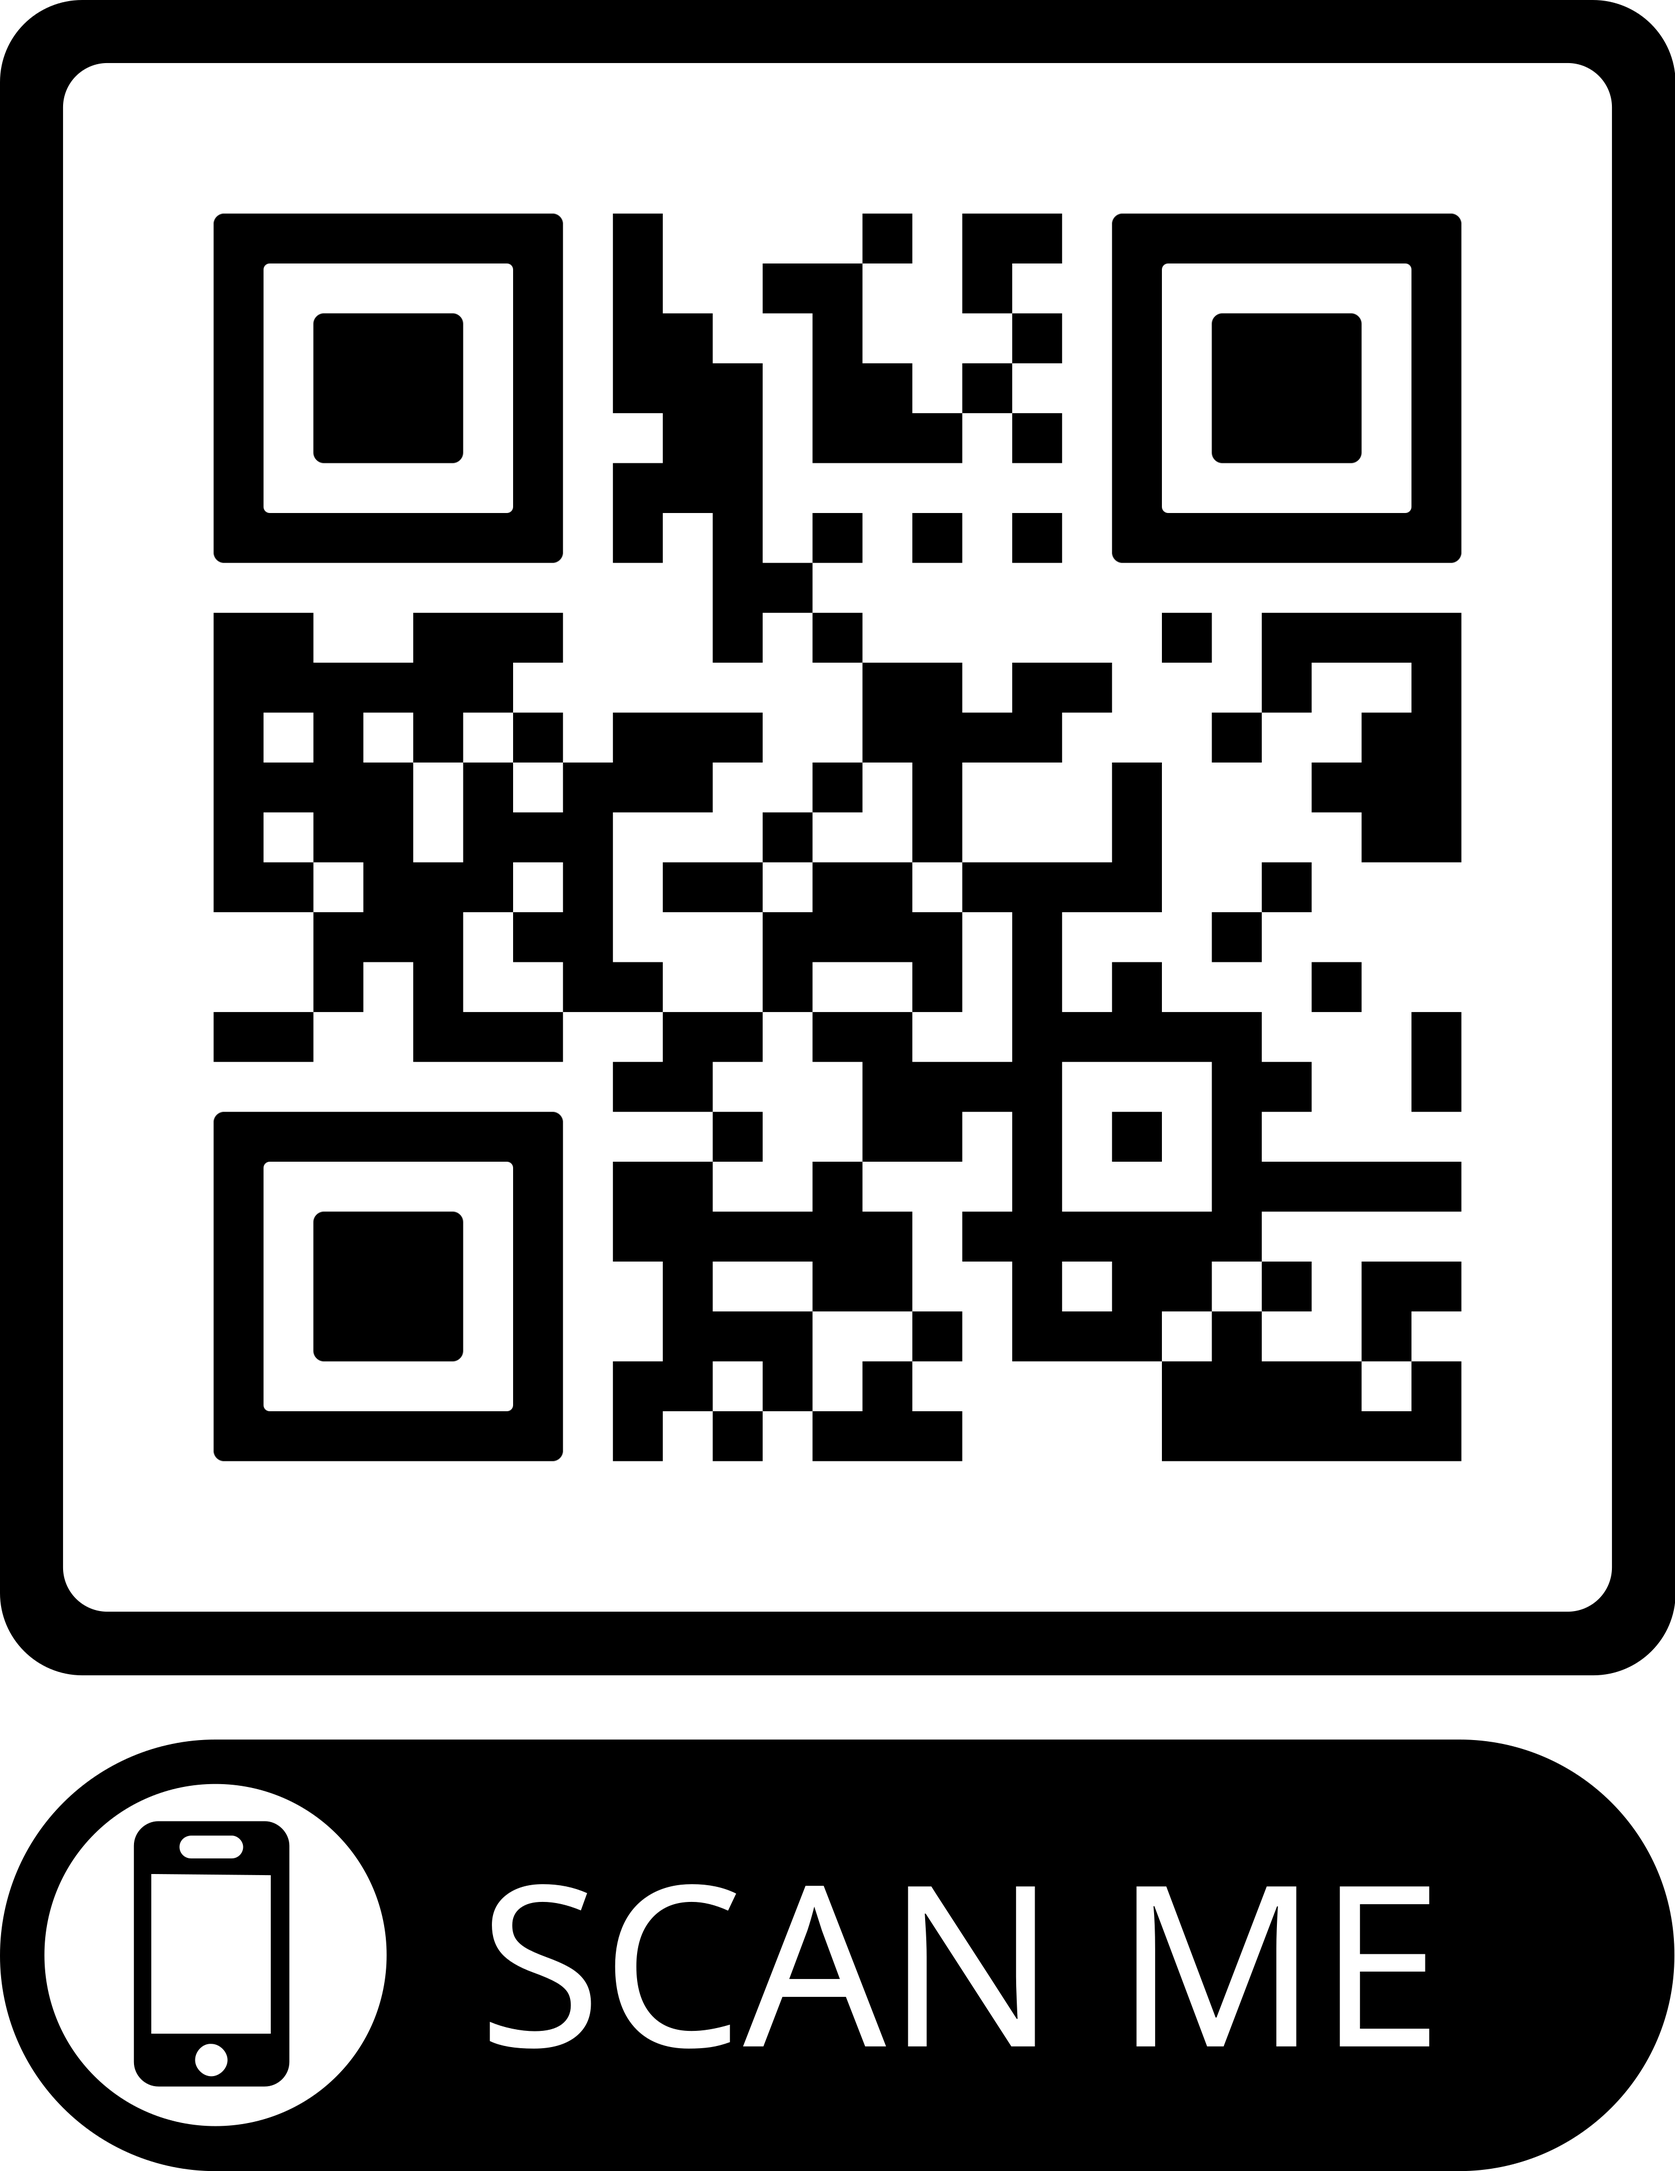
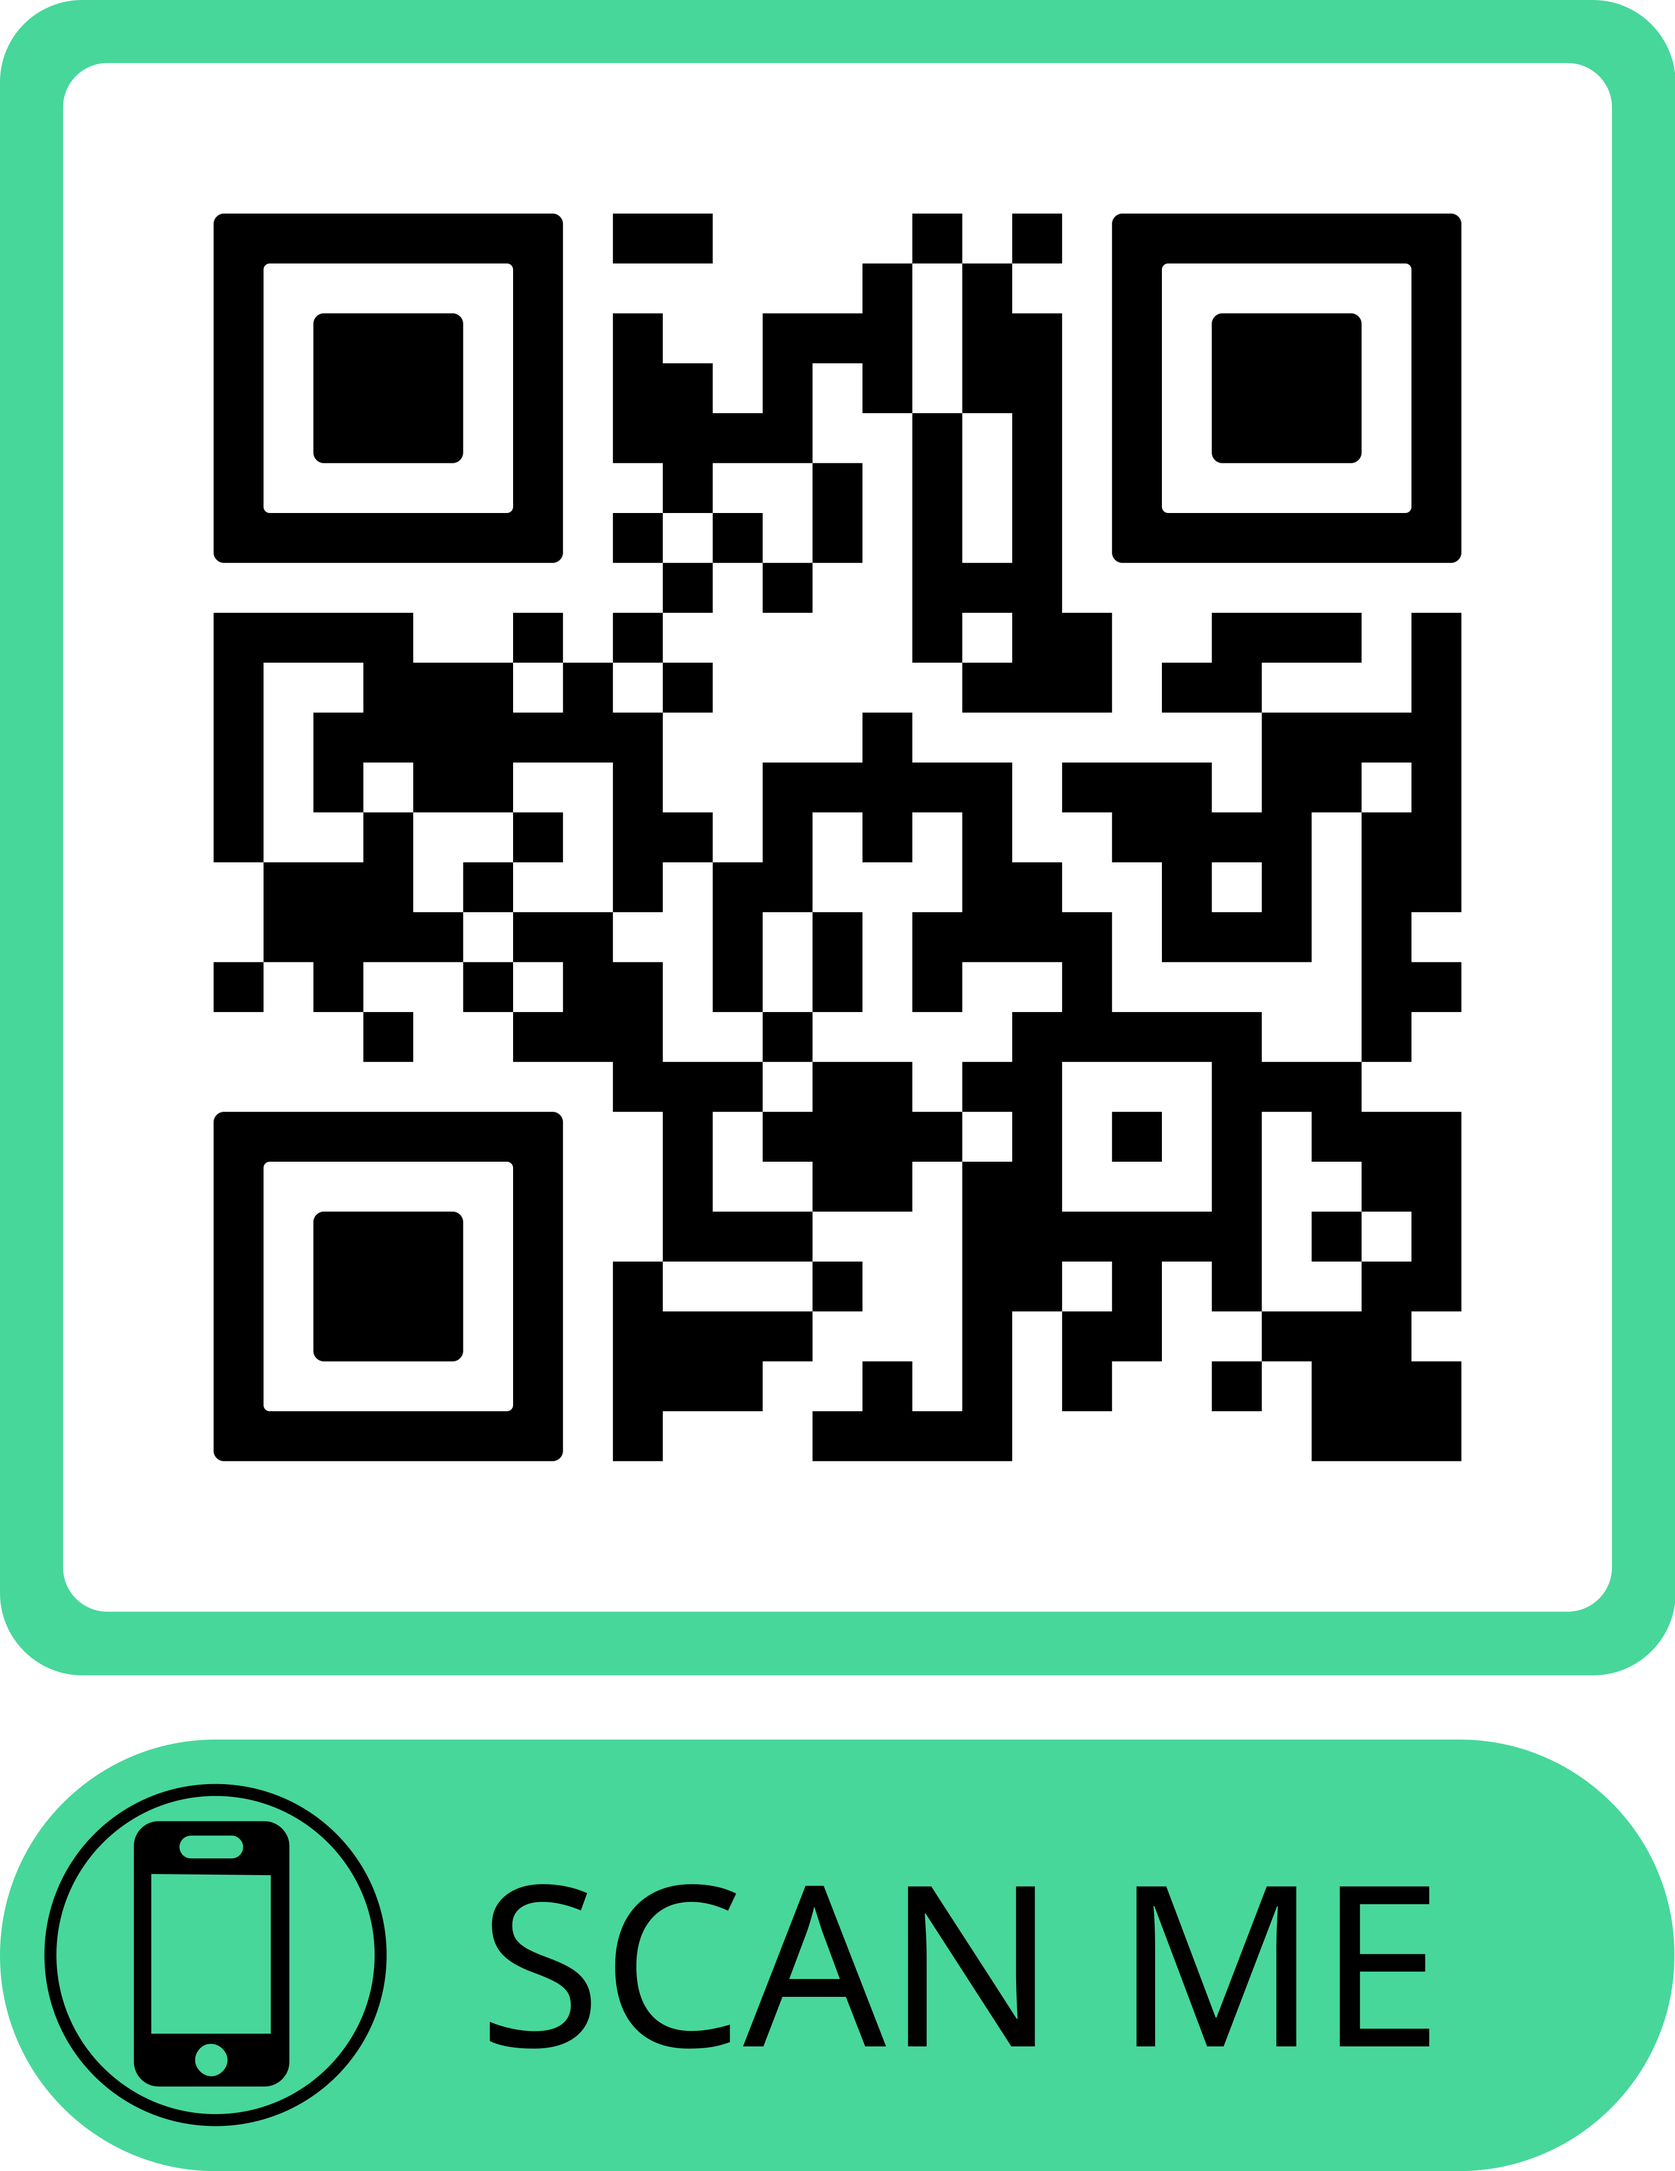
cambio nuevo

diff --git a/index.html b/index.html
@@ -13,6 +13,10 @@
         <div class="button-container">
             <button onclick="mostrarBienvenida()">Bienvenidos</button>
         </div>
+        <div id="qr-container">
+            <h3>Escanea para ver esta invitación</h3>
+            <img src="codigo-qr.png" alt="Código QR">
+        </div>
     </div>
 
     <div class="container" id="bienvenidaScreen">
